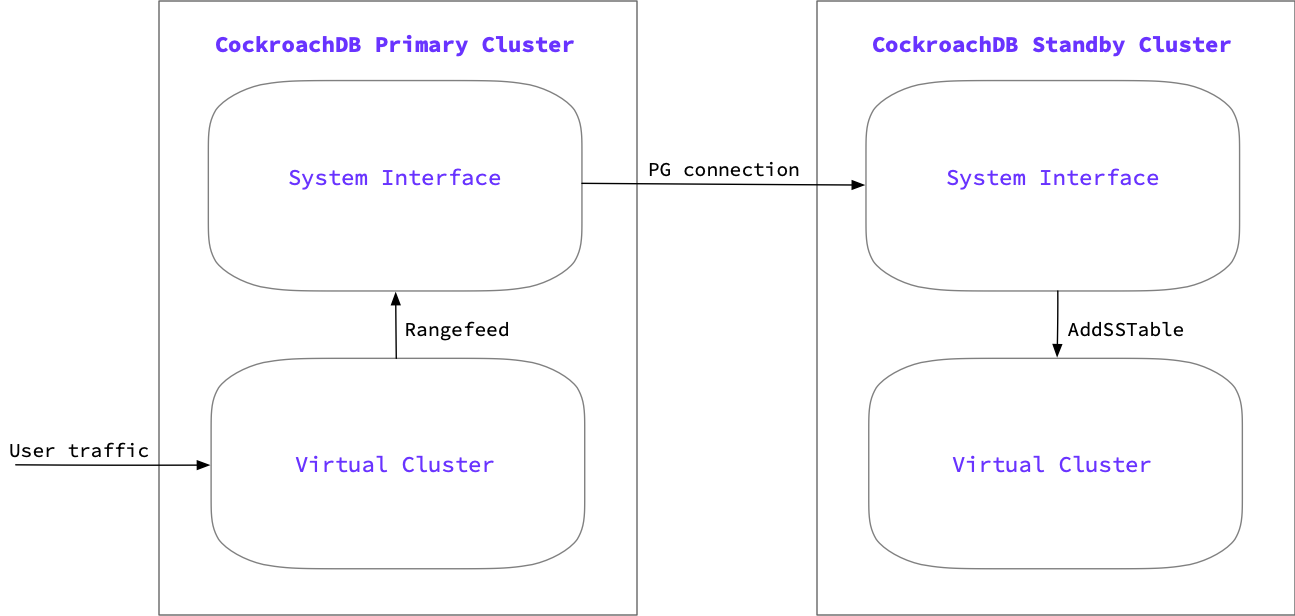
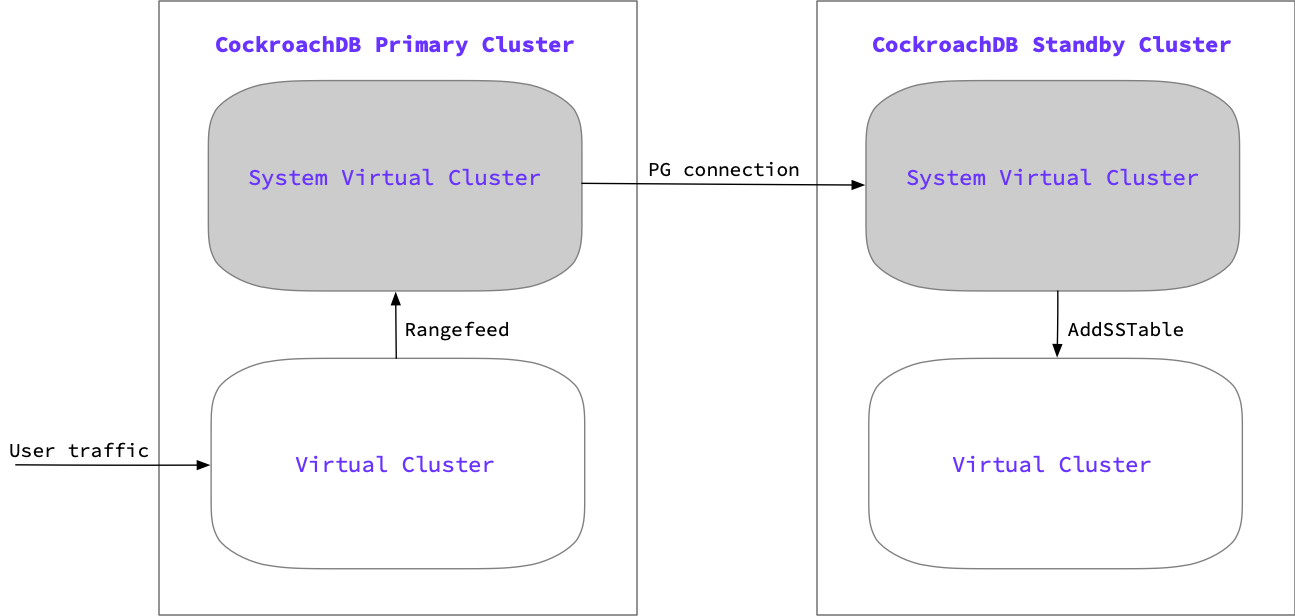
Update graphic for terminology system VC and VC

Changed region(s): [[0.6486, 0.1234, 0.9575, 0.4935], [0.1544, 0.1234, 0.4633, 0.4935]]

diff --git a/src/current/v23.2/physical-cluster-replication-technical-overview.md b/src/current/v23.2/physical-cluster-replication-technical-overview.md
@@ -32,7 +32,7 @@ The stream initialization proceeds as follows:
 1. Once the initial scan is complete, the primary then begins streaming all changes from the point of the starting timestamp.
 
 {% comment %}TODO Kathryn to update this graphic {% endcomment%}
-<img src="{{ 'images/v23.2/physical-rep-to.png' | relative_url }}" alt="Two virtualized clusters with system and application tenants showing the directional stream." style="border:0px solid #eee;max-width:100%" />
+<img src="{{ 'images/v23.2/physical-rep-to.png' | relative_url }}" alt="Two virtualized clusters with system virtual cluster and application virtual cluster showing the directional stream." style="border:0px solid #eee;max-width:100%" />
 
 ### During the replication stream
 

diff --git a/src/current/v24.1/physical-cluster-replication-technical-overview.md b/src/current/v24.1/physical-cluster-replication-technical-overview.md
@@ -32,7 +32,7 @@ The stream initialization proceeds as follows:
 1. Once the initial scan is complete, the primary then begins streaming all changes from the point of the starting timestamp.
 
 {% comment %}TODO Kathryn to update this graphic {% endcomment%}
-<img src="{{ 'images/v24.1/physical-rep-to.png' | relative_url }}" alt="Two virtualized clusters with system and application tenants showing the directional stream." style="border:0px solid #eee;max-width:100%" />
+<img src="{{ 'images/v24.1/physical-rep-to.png' | relative_url }}" alt="Two virtualized clusters with system virtual cluster and application virtual cluster showing the directional stream." style="border:0px solid #eee;max-width:100%" />
 
 ### During the replication stream
 
